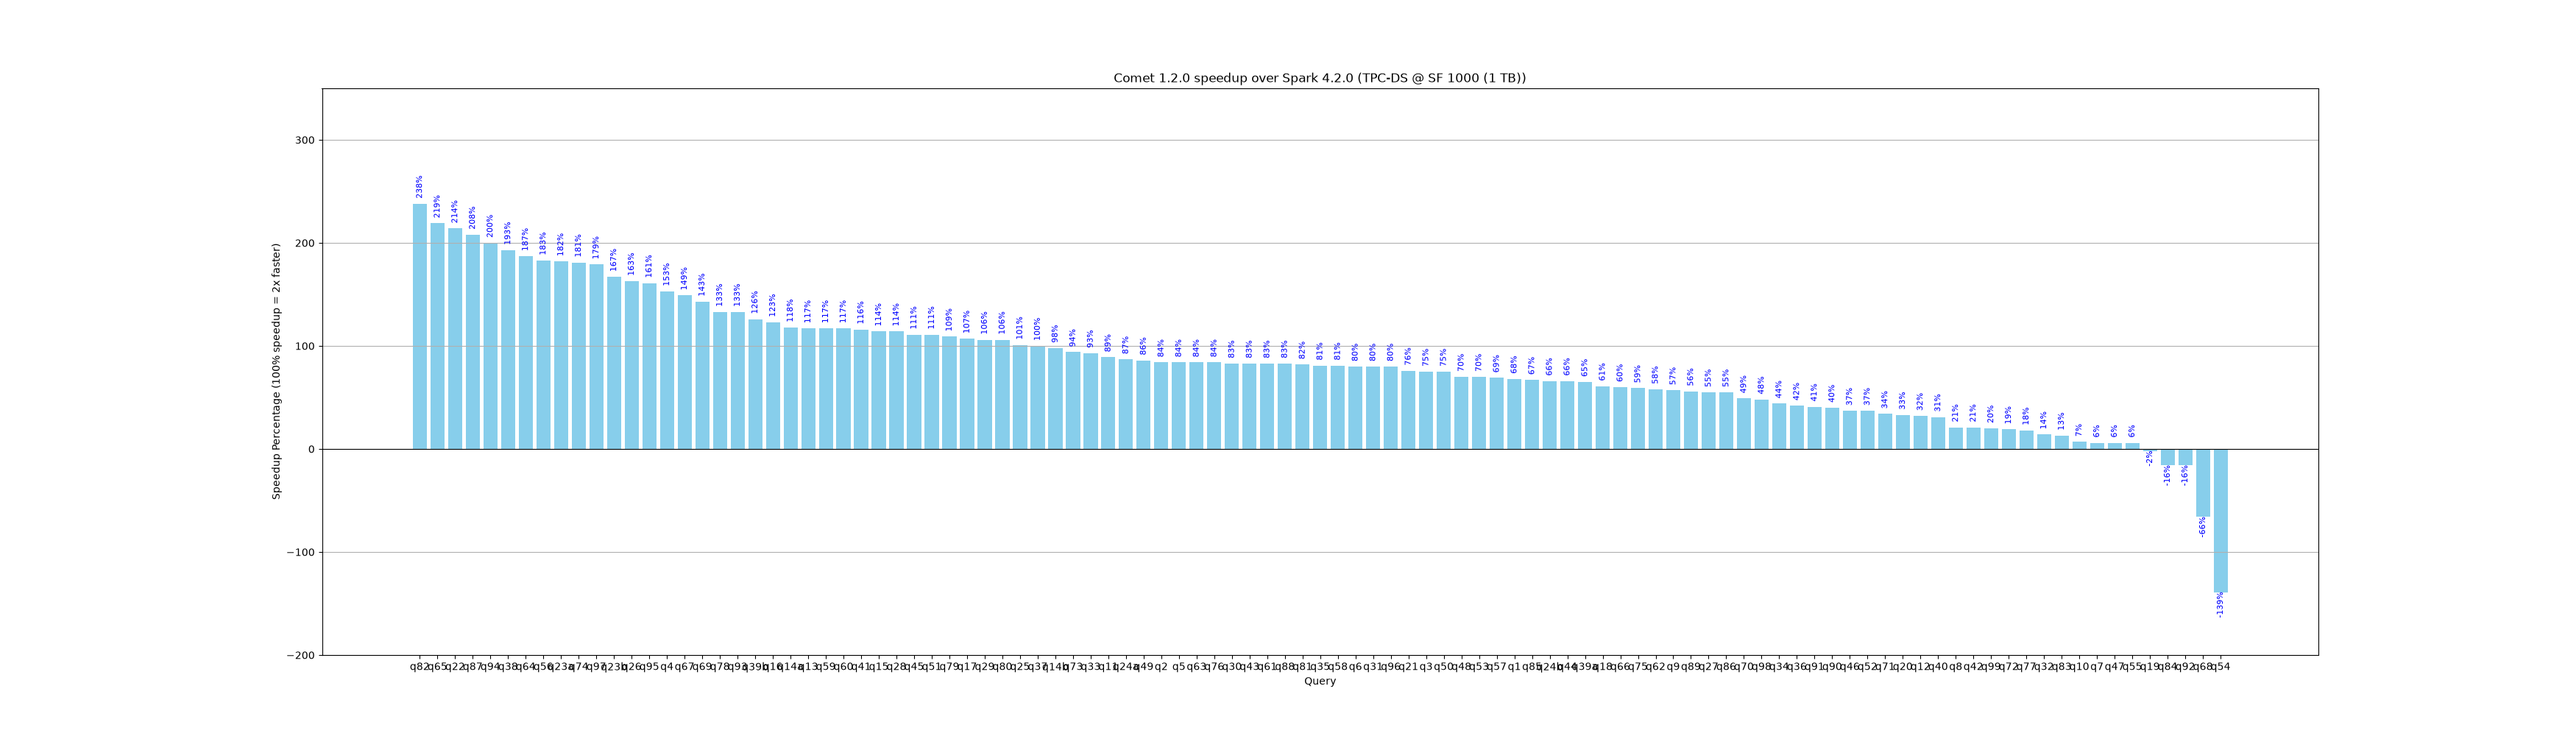
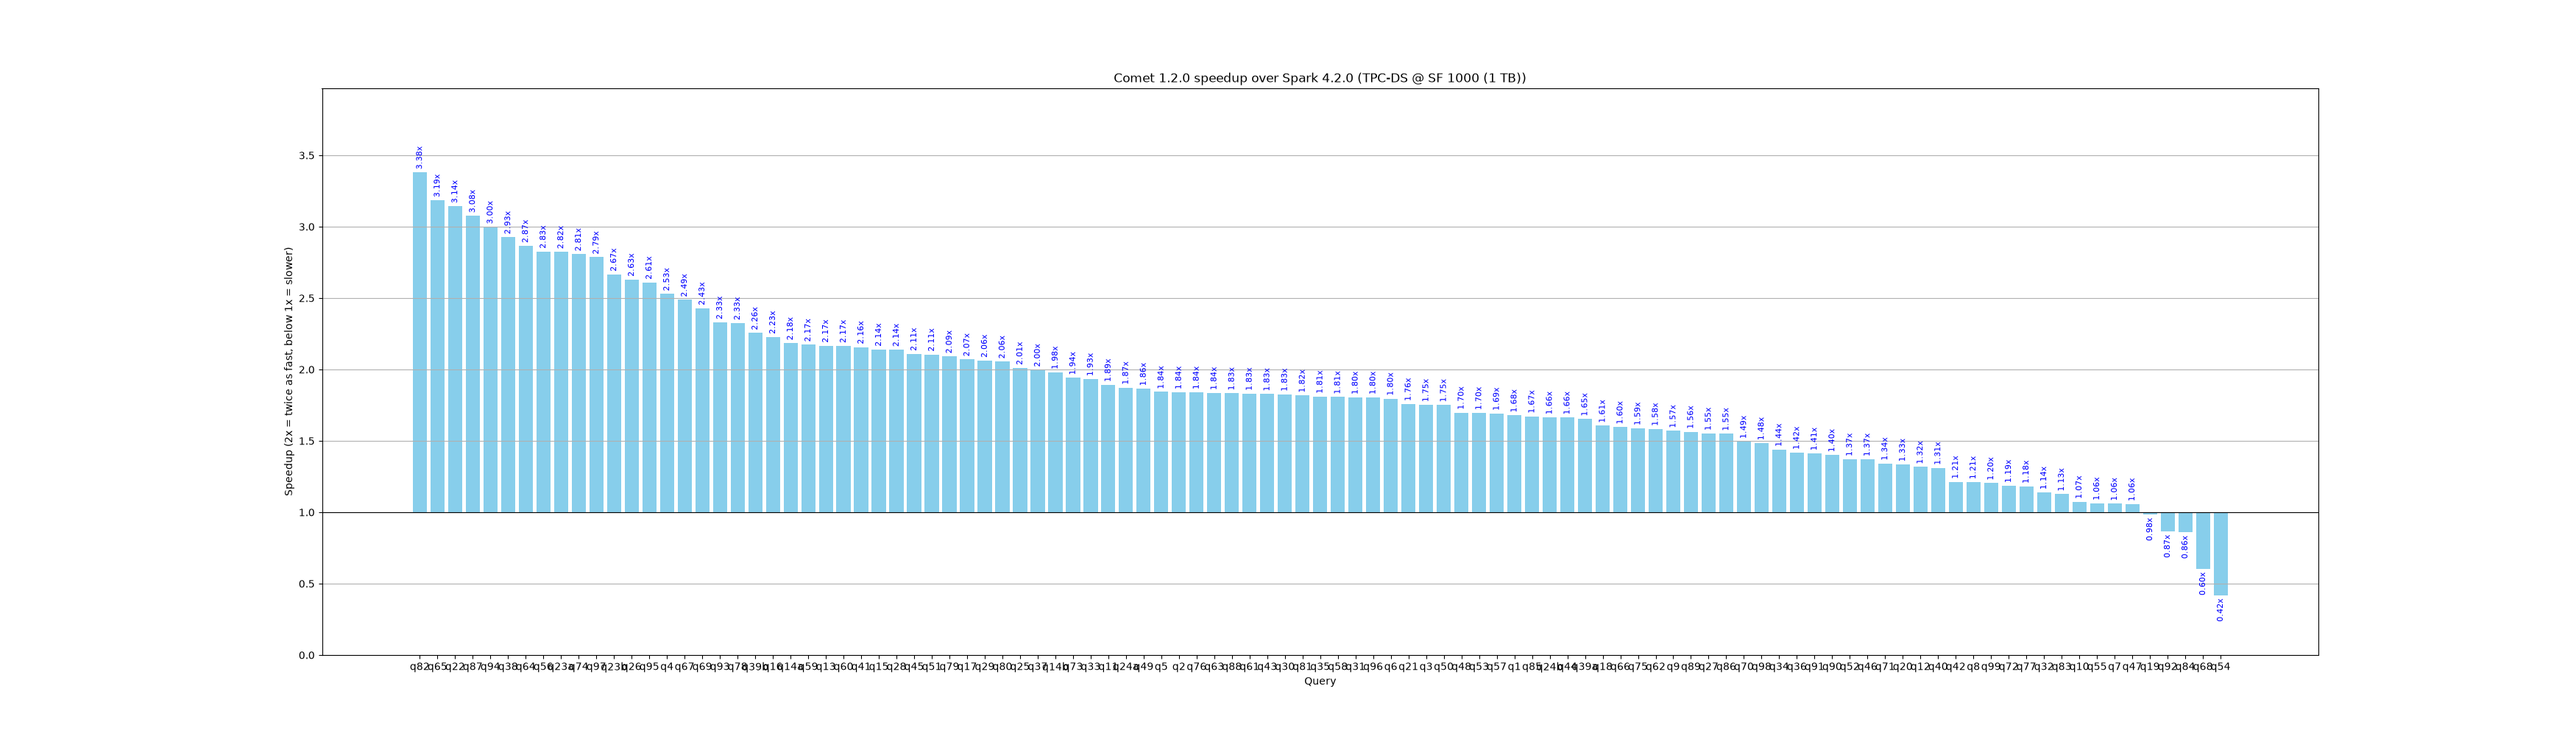
docs: show per-query speedup as a multiple (2x) instead of a percentage

diff --git a/benchmarks/tpc/generate-comparison.py b/benchmarks/tpc/generate-comparison.py
@@ -104,11 +104,8 @@ def generate_query_rel_speedup_chart(baseline, comparison, label1: str, label2: 
     for query in common_queries:
         a = np.median(np.array(get_durations(baseline, str(query))))
         b = np.median(np.array(get_durations(comparison, str(query))))
-        if a > b:
-            speedup = a/b-1
-        else:
-            speedup = -(1/(a/b)-1)
-        results.append(("q" + str(query), round(speedup*100, 0)))
+        # Speedup as a multiple: 2.0 means twice as fast, 0.5 means twice as slow.
+        results.append(("q" + str(query), a/b))
 
     results = sorted(results, key=lambda x: -x[1])
 
@@ -120,28 +117,27 @@ def generate_query_rel_speedup_chart(baseline, comparison, label1: str, label2: 
     else:
         fig, ax = plt.subplots(figsize=(35, 10))
 
-    # Create bar chart
-    bars = ax.bar(queries, speedups, color='skyblue')
+    # Draw the bars from 1.0x (same speed) up for speedups and down for slowdowns
+    bars = ax.bar(queries, [s - 1 for s in speedups], bottom=1, color='skyblue')
 
     # Add text annotations
     for bar, speedup in zip(bars, speedups):
-        yval = bar.get_height()
-        if yval >= 0:
-            ax.text(bar.get_x() + bar.get_width() / 2.0, min(800, yval+5), f'{yval:.0f}%', va='bottom', ha='center', fontsize=8,
+        if speedup >= 1:
+            ax.text(bar.get_x() + bar.get_width() / 2.0, speedup + 0.02, f'{speedup:.2f}x', va='bottom', ha='center', fontsize=8,
                     color='blue', rotation=90)
         else:
-            ax.text(bar.get_x() + bar.get_width() / 2.0, yval, f'{yval:.0f}%', va='top', ha='center', fontsize=8,
+            ax.text(bar.get_x() + bar.get_width() / 2.0, speedup - 0.02, f'{speedup:.2f}x', va='top', ha='center', fontsize=8,
                     color='blue', rotation=90)
 
     # Add title and labels
     ax.set_title(label2 + " speedup over " + label1 + " (" + title + ")")
-    ax.set_ylabel('Speedup Percentage (100% speedup = 2x faster)')
+    ax.set_ylabel('Speedup (2x = twice as fast, below 1x = slower)')
     ax.set_xlabel('Query')
 
-    # Customize the y-axis to handle both positive and negative values better
-    ax.axhline(0, color='black', linewidth=0.8)
-    min_value = (min(speedups) // 100) * 100
-    max_value = ((max(speedups) // 100) + 1) * 100 + 50
+    # Customize the y-axis to handle both speedups and slowdowns
+    ax.axhline(1, color='black', linewidth=0.8)
+    min_value = max(0.0, np.floor((min(min(speedups), 1.0) - 0.25) * 4) / 4)
+    max_value = max(speedups) * 1.1 + 0.25
     ax.set_ylim(min_value, max_value)
 
     # Show grid for better readability
